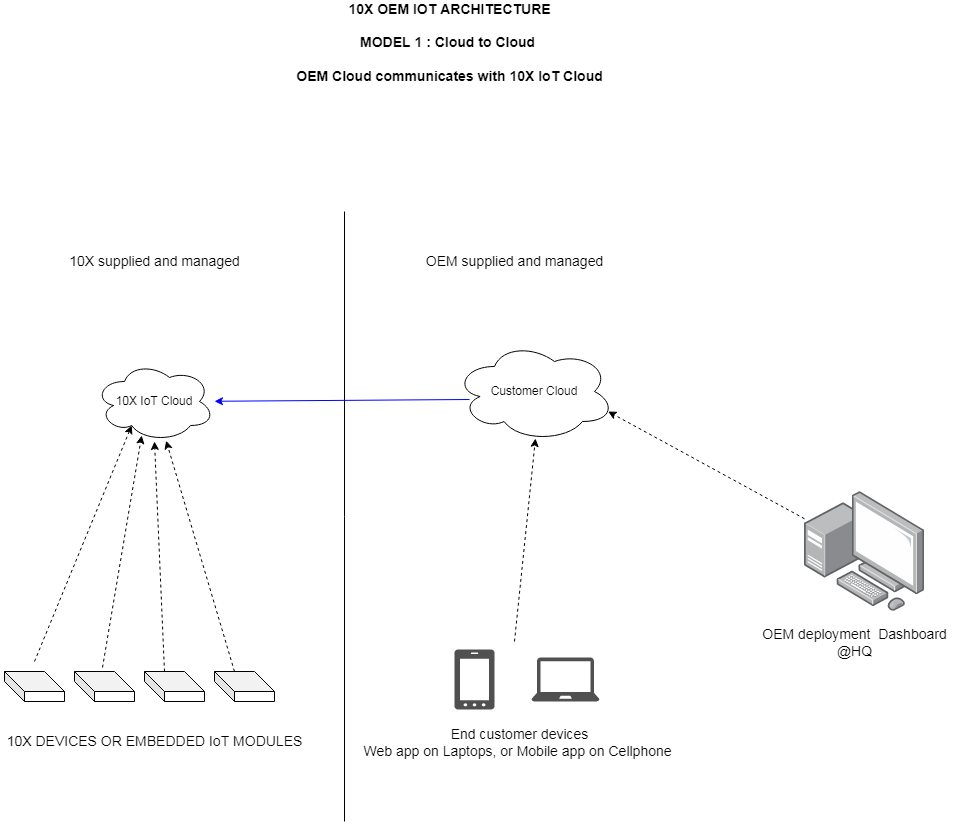
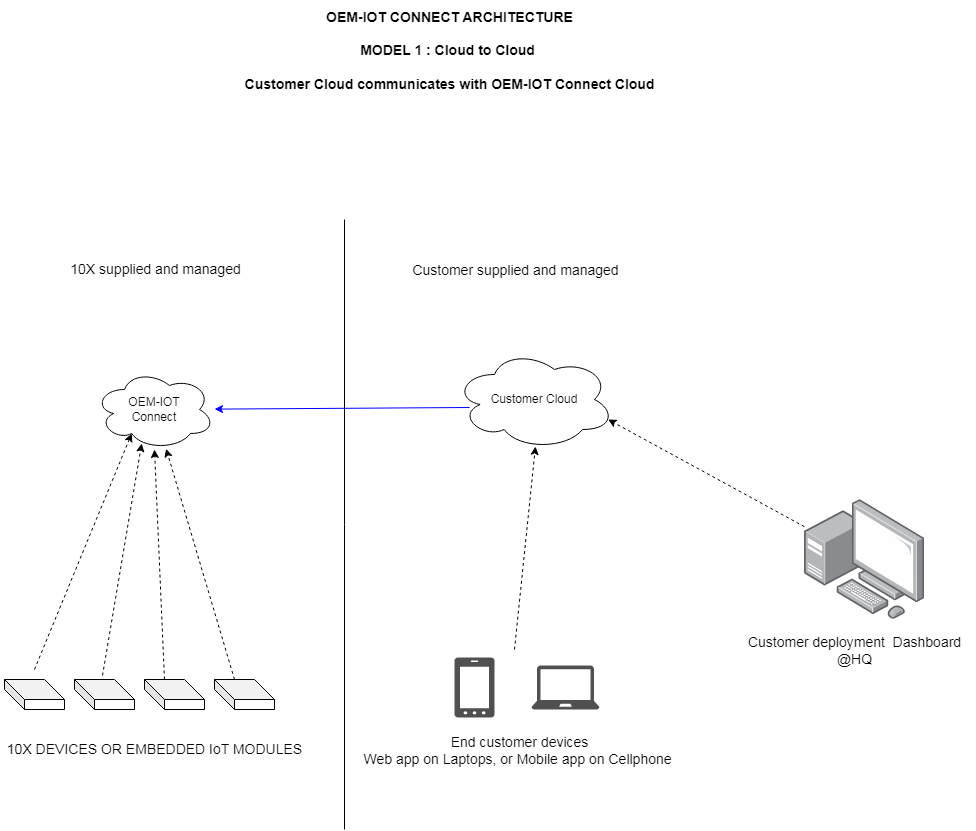
Deployed  with MkDocs version: 1.4.2

diff --git a/index.html b/index.html
@@ -65,7 +65,7 @@
     <div data-md-component="skip">
       
         
-        <a href="#welcome-to-our-data-api" class="md-skip">
+        <a href="#welcome-the-the-10x-innovations-documentation-portal" class="md-skip">
           Skip to content
         </a>
       
@@ -462,10 +462,9 @@
 
 
 
-<h1 id="welcome-to-our-data-api">Welcome to our Data API</h1>
-<p>Welcome to the OEM-IoT Endpoint API reference. Here we explain how to send or retrieve data from devices in field using HTTP.</p>
-<p>The purpose of this document is to empower OEMs to build innovative IoT applications without having to understand firmware or embedded systems. The OEM-IoT cloud abstracts away hardware and firmware complexities, allowing the developer to focus on their application or business use case.</p>
-<p>This documentation explains the interaction between edge devices such as the Sentroller and the OEM-IOT Cloud.</p>
+<h1 id="welcome-the-the-10x-innovations-documentation-portal">Welcome the the 10X Innovations Documentation Portal</h1>
+<p>This portal is a one stop for all documentation and datasheet for our products - both hardware and software. </p>
+<p>If more information is needed or you have any feedback kindly write to us support@tenxinnovations.com</p>
 
 
 

diff --git a/oec_intro/index.html b/oec_intro/index.html
@@ -469,7 +469,7 @@
 <h1 id="introduction">INTRODUCTION</h1>
 <p>OEM-IOT connect allows devices (sensors, actuators, edge devices), to be securely and quickly cloud connected. 
 The purpose of this Cloud product is to empower OEMs to build innovative IoT applications without having to understand or maintain cloud infrastructure neccessary to onboard, maintain and manage large number of edge devices. The OEM-IoT Connect also abstracts away hardware and firmware complexities, allowing the developer to focus on their application or business use case, using a simple API.</p>
-<p>This documentation explains the interaction between edge devices such as the Sentroller and the OEM-IOT Cloud. Here we explain how to send or retrieve data from devices in field using HTTP.</p>
+<p>This documentation explains the interaction between an edge devices and the OEM-IOT Connect Cloud using HTTP.</p>
 
 
 

diff --git a/oec_arc/index.html b/oec_arc/index.html
@@ -466,7 +466,7 @@
 
 
 
-<h1 id="oem-iot-connect-architecture">OEM IOT CONNECT ARCHITECTURE</h1>
+<h1 id="oem-iot-connect-architecture">OEM-IOT CONNECT ARCHITECTURE</h1>
 <p><img alt="Oem iot" src="../images/model1.png" /></p>
 
 
